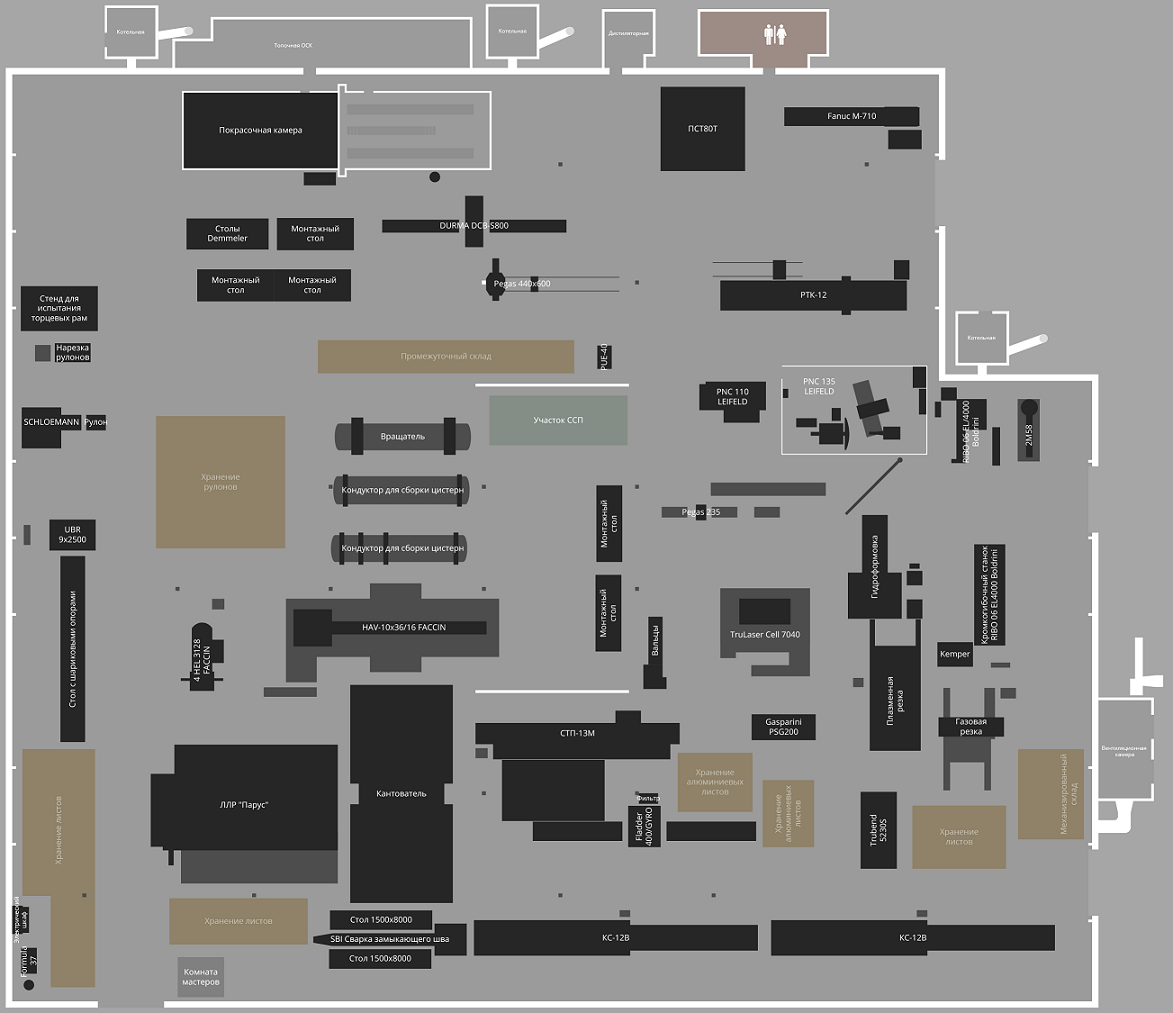
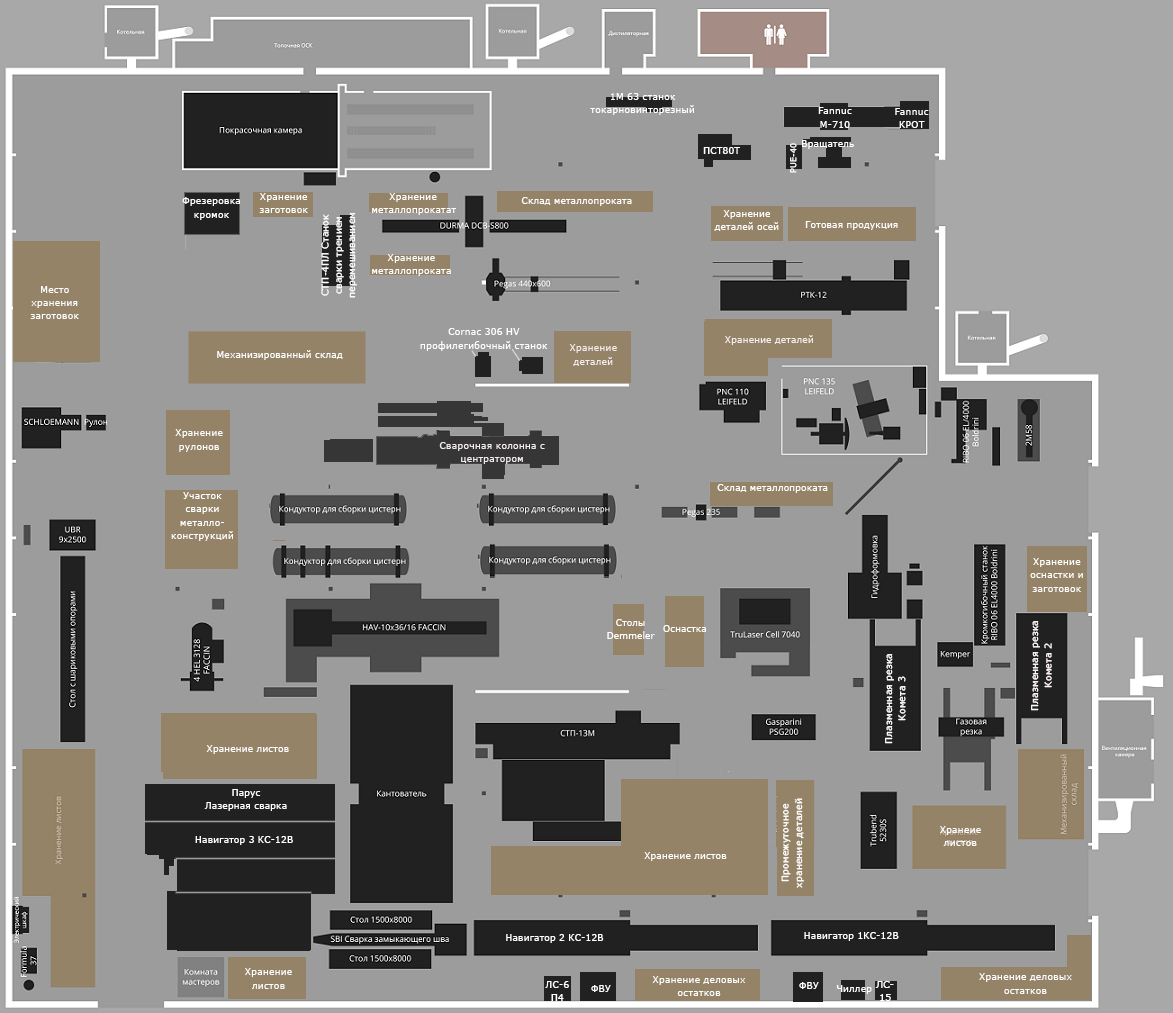
Правильные координаты для третьего навигатора, кометы 2,3 и m710 и крот

diff --git a/static/js/mesto.js b/static/js/mesto.js
@@ -265,11 +265,11 @@ function navigator_2(){
 };
 
 function navigator_3(){
-    mar_top = -145;
-    mar_left = 680;
+    mar_top = -200;
+    mar_left = 220;
     bground = 'url(../images/navigator.png) no-repeat';
     place_img = "../images/sbor_ceh.png";
-    size = 60;
+    size = 50;
     bwidth = "unset";
 
     window.localStorage['mar_top'] = mar_top;
@@ -313,11 +313,27 @@ function kometa_1(){
 };
 
 function kometa_2(){
-    mar_top = -520;
-    mar_left = 940;
+    mar_top = -370;
+    mar_left = 1015;
     bground = 'url(../images/kometa.png) no-repeat';
     place_img = "../images/sbor_ceh.png";
-    size = 40;
+    size = 50;
+    bwidth = "unset";
+
+    window.localStorage['mar_top'] = mar_top;
+    window.localStorage['mar_left'] = mar_left;
+    window.localStorage['bground'] = bground;
+    window.localStorage['place_img'] = place_img;
+    window.localStorage['bwidth'] = bwidth;
+    window.localStorage['size'] = size;
+};
+
+function kometa_3(){
+    mar_top = -340;
+    mar_left = 870;
+    bground = 'url(../images/kometa.png) no-repeat';
+    place_img = "../images/sbor_ceh.png";
+    size = 50;
     bwidth = "unset";
 
     window.localStorage['mar_top'] = mar_top;
@@ -563,7 +579,7 @@ function m710 (){
     mar_left = 800;
     bground = 'url(../images/robot.png) no-repeat';
     place_img = "../images/sbor_ceh.png";
-    size = 60;
+    size = 40;
     bwidth = "unset";
 
     window.localStorage['mar_top'] = mar_top;
@@ -608,7 +624,7 @@ function p250 (){
 
 function krot (){
     mar_top = -920;
-    mar_left = 800;
+    mar_left = 890;
     bground = 'url(../images/robot.png) no-repeat';
     place_img = "../images/sbor_ceh.png";
     size = 60;

diff --git a/templates/mesto/mesto.html b/templates/mesto/mesto.html
@@ -247,11 +247,11 @@
 </style>
 
 <!--<script>-->
-<!--    mar_top = -310;-->
-<!--    mar_left = 550;-->
+<!--    mar_top = -915;-->
+<!--    mar_left = 815;-->
 <!--    bground = 'url(../../static/images/faccin.png) no-repeat';-->
 <!--    place_img = "../../static/images/sbor_ceh.png";-->
-<!--    size = 60;-->
+<!--    size = 40;-->
 
 <!--    window.localStorage['mar_top'] = mar_top;-->
 <!--    window.localStorage['mar_left'] = mar_left;-->
